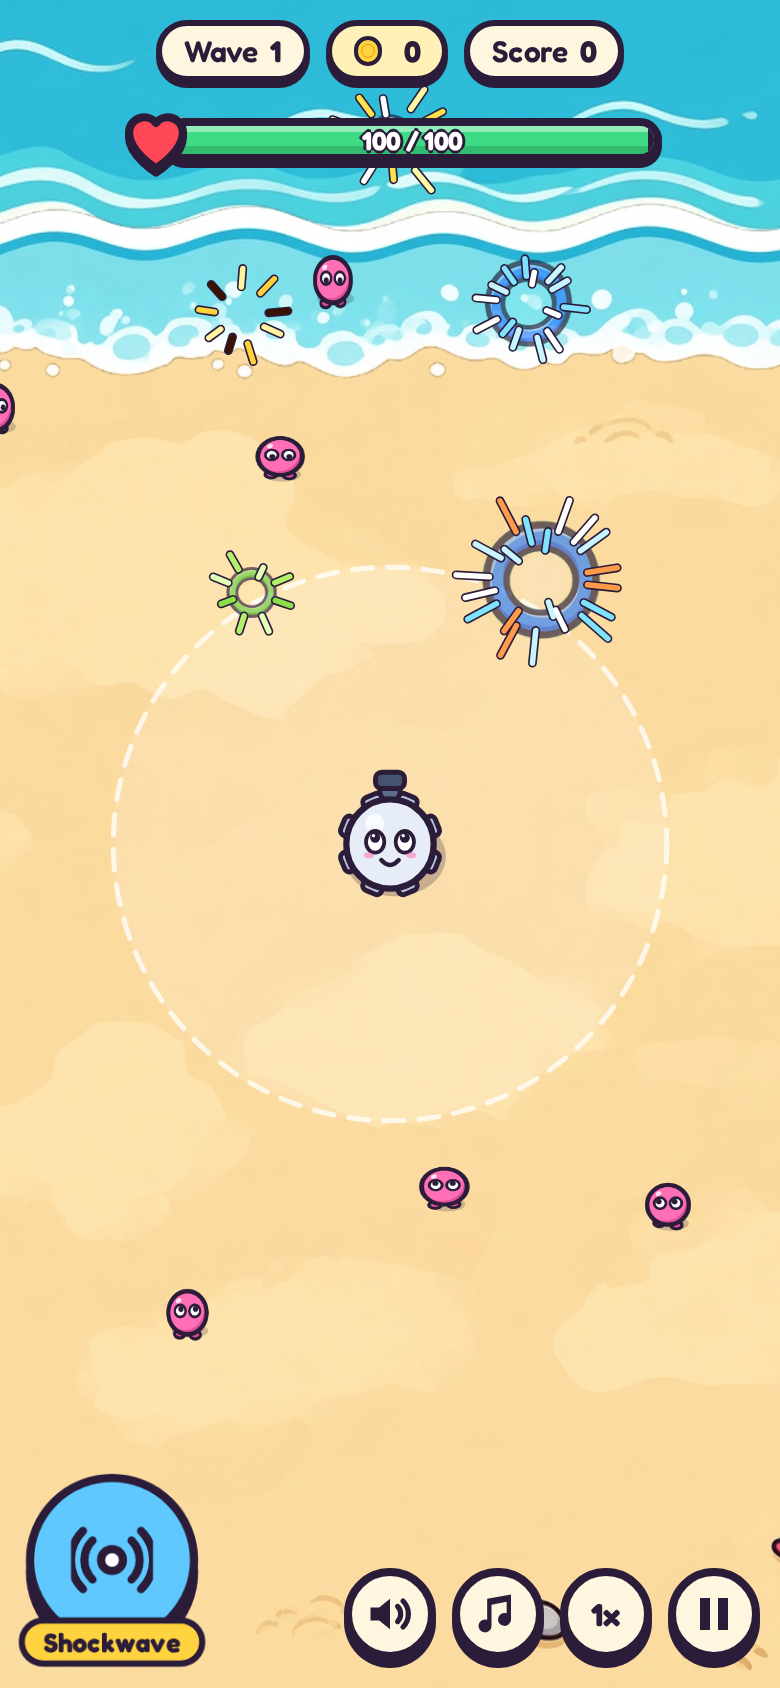
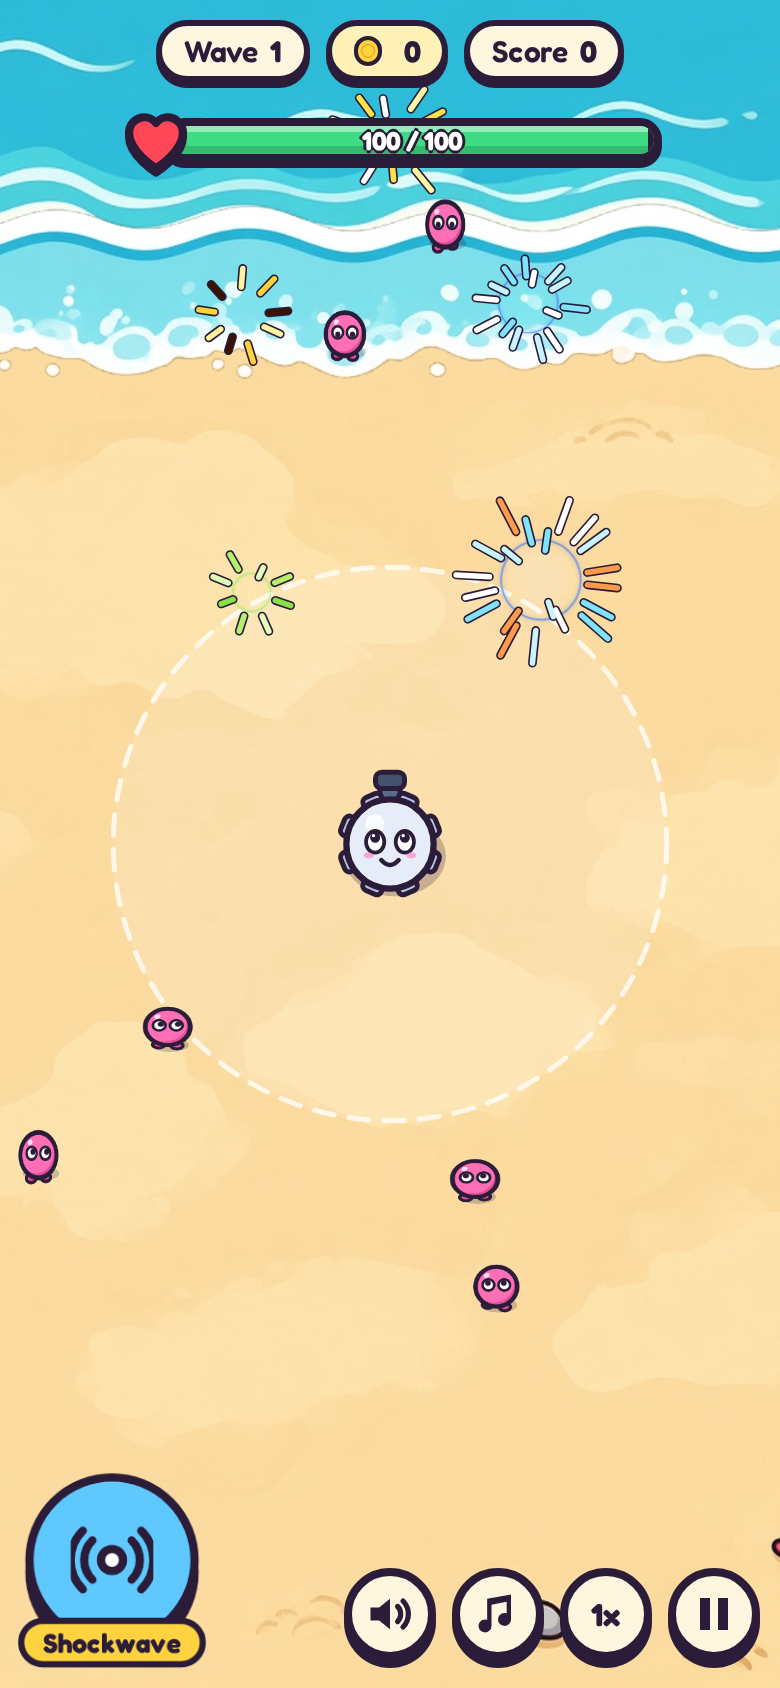
docs + QA: v3 subtle redo in OO-MIGRATION 10a; re-took docs/qa/pr10a (rings, bolts, overdrive, t4 aura + its 6-frame strip), contact sheet, main-vs-10a compare, real boss-kill sequence main vs 10a (t = 0 / 0.1 / 0.2 / 0.4 s)

diff --git a/docs/OO-MIGRATION.md b/docs/OO-MIGRATION.md
@@ -339,15 +339,16 @@ Each PR ships on its own. Each one needs:
    - **Offline cache:** `sw.js` v30 reads `fx.json` at install and caches every sheet JSON and PNG it lists.
    - **Tests:** a data-only acceptance test (temp entry + PNG fixture plays with zero code edits), render-test updates, and `tools/fx-art-scan.js` (fails on fill / stroke / arc / gradient / tint calls in the converted files).
    - **Art (asked of Game Art & Motion, Nov 16):** `overdrive_aura`, `chain_bolt`, `chain_arc_flash`, `chain_node_glow`, `tower_aura_t0`–`t4`, `glow_<10 colours>`, `impact_ring_<5 colours>` (section G art list rows 1–4 and 6–8).
-   - **Art landed (Game Art & Motion PR10a effects v1, Nov 16, plus v2 additions at 9:58 AM ET):** 27 sheets in `assets/fx/` (sub-folders per effect), byte-identical to the delivery, with its `PROVENANCE.json` (every PNG listed with its sha256; `tools/fx-test.js` checks it) and `LICENSE.md`; about 3.7 MB. `fx.json` is built from the delivery's `fx.manifest.json` in our schema. Glow colours: amber, blue, cyan, gold, green, lime, orange, pink, purple, red, plus v2 **pale** (warm cream) and **yellow**. v2 also brought `screen_burst` (amber, no near-white pixels), which closes the PR Verifier's P2-1 stand-in (the flash had used `glow_gold`). Mapping: white and pale (`#ffffff`, `#fff3a0`, `#fff6a8`) → `glow_pale`, yellow (`#ffe14d`, `#ffe680`) → `glow_yellow`, gold stays gold (P3-2); boss kill, finale, tier-up and spark blooms → `impactBloom.pale` (their old bloom colour); frost / shatter blooms → cyan, venom → lime. **PR 10a is complete: no stand-in art left.**
+   - **Art landed (Game Art & Motion PR10a effects v1, Nov 16, plus v2 additions at 9:58 AM ET):** 27 sheets in `assets/fx/` (sub-folders per effect; the v3 redo in `<effect>/v3/`), byte-identical to the delivery, with its `PROVENANCE.json` (every PNG listed with its sha256; `tools/fx-test.js` checks it) and `LICENSE.md`; about 3.1 MB. `fx.json` is built from the delivery's `fx.manifest.json` in our schema. Glow colours: amber, blue, cyan, gold, green, lime, orange, pink, purple, red, plus v2 **pale** (warm cream) and **yellow**. v2 also brought `screen_burst` (amber, no near-white pixels), which closes the PR Verifier's P2-1 stand-in (the flash had used `glow_gold`). Mapping: white and pale (`#ffffff`, `#fff3a0`, `#fff6a8`) → `glow_pale`, yellow (`#ffe14d`, `#ffe680`) → `glow_yellow`, gold stays gold (P3-2); boss kill, finale, tier-up and spark blooms → `impactBloom.pale` (their old bloom colour); frost / shatter blooms → cyan, venom → lime. **PR 10a is complete: no stand-in art left.**
+   - **v3 subtle redo (Brian, Nov 16, 10:17 AM ET, his words relayed by Chief of Staff: "The new tower are is too bold need more subtlety"):** Game Art & Motion redid the impact rings (band about 3% of the frame radius), the chain bolt (4 px soft core, no dark underlay), the arc flash (lighter), the overdrive aura (soft, 0.35-0.45 peak, no outline) and tower aura t0-t4 (the t4 white pixels were fixed at 10:35 AM ET). The superseded v1 files are not shipped. `tools/fx-art-scan.js` now fails on near-white pixels in any PNG under `assets/fx`, and `tools/fx-test.js` checks that the 13 redone sheets are the v3 files. The target is about main's visual weight (`docs/qa/pr10a/pr10a-compare-main-vs-pr10a-backyard.png`, `pr10a-bosskill-sequence-main-vs-pr10a.png`).
    - **Sizes (a design call: match the look each effect replaces, not the delivery preview).** Game Art's preview assumed fixed CSS sizes; ours follow the old drawing (CSS px at the phone's 0.629 px per world unit):
      - overdrive: frame half-width 2.25 x tower radius (about 74 px; preview 72), so the flames reach as far as the old disc's pulse;
      - tower aura: 2.22 to 3.6 x tower radius by tower power (about 73 to 118 px; preview 90), matched to the old glow's alpha mass;
-     - chain bolt: stretched along each hop, about 18 px thick (preview 64 x 12), matching the old jag envelope;
+     - chain bolt: stretched along each hop, drawn at 0.8 x the v3 art: about 5 px visible line with a 2 px core (preview 64 x 12), main's 7.5 world-unit stroke weight;
      - arc flash 44 px (preview 28; its last ring at the old radius 22) and node glow 30 px (preview 14; the old radius 24);
      - glows: coin 22, crit 30, blooms 0.35 to 0.7 x the impact ring (preview 20);
      - screen burst: half the 512 frame = half the screen's long side, centred on the impact (844 px across on a 390 x 844 phone; preview 900 px centred), the old flash's size; the art's alpha-mass radius 0.41 matches the old glow's 0.43. Opacity = flash strength x (1 - life)^2, the old timing;
-     - impact rings: relative to each impact's ring radius (30 to 320 world units), ending on it as the old stroke did (preview 48 px fixed). Small element rings match the old look. Big rings (boss kill, finale, tier-up, cards) come out much thicker than the old 3 to 12 px stroke, because the art's band scales with the ring. That is a look question for Brian (`docs/qa/pr10a/pr10a-03b`, `-03c`).
+     - impact rings: relative to each impact's ring radius (30 to 320 world units), 0.3 to 1.11 x it over the pulse, so the v3 ring starts near 0.12 R and ends on R as the old stroke did (preview 48 px fixed). With the v3 band (about 3% of the frame radius) a boss-kill ring is about 4 px thick, near main's 3-12 world-unit stroke. The v1 rings were much thicker; Brian rejected that look on Nov 16.
 2. **PR 10b: The rest of the canvas FX** (X7, X12, X13, X14, P2, P3).
    - ParticleBatch motes and streaks and ProjectileTrails become `fx.json` entries.
    - The low-HP vignette (Decision 9), screen burst (Decision 12) and finale dim (Decision 4) also become entries.
